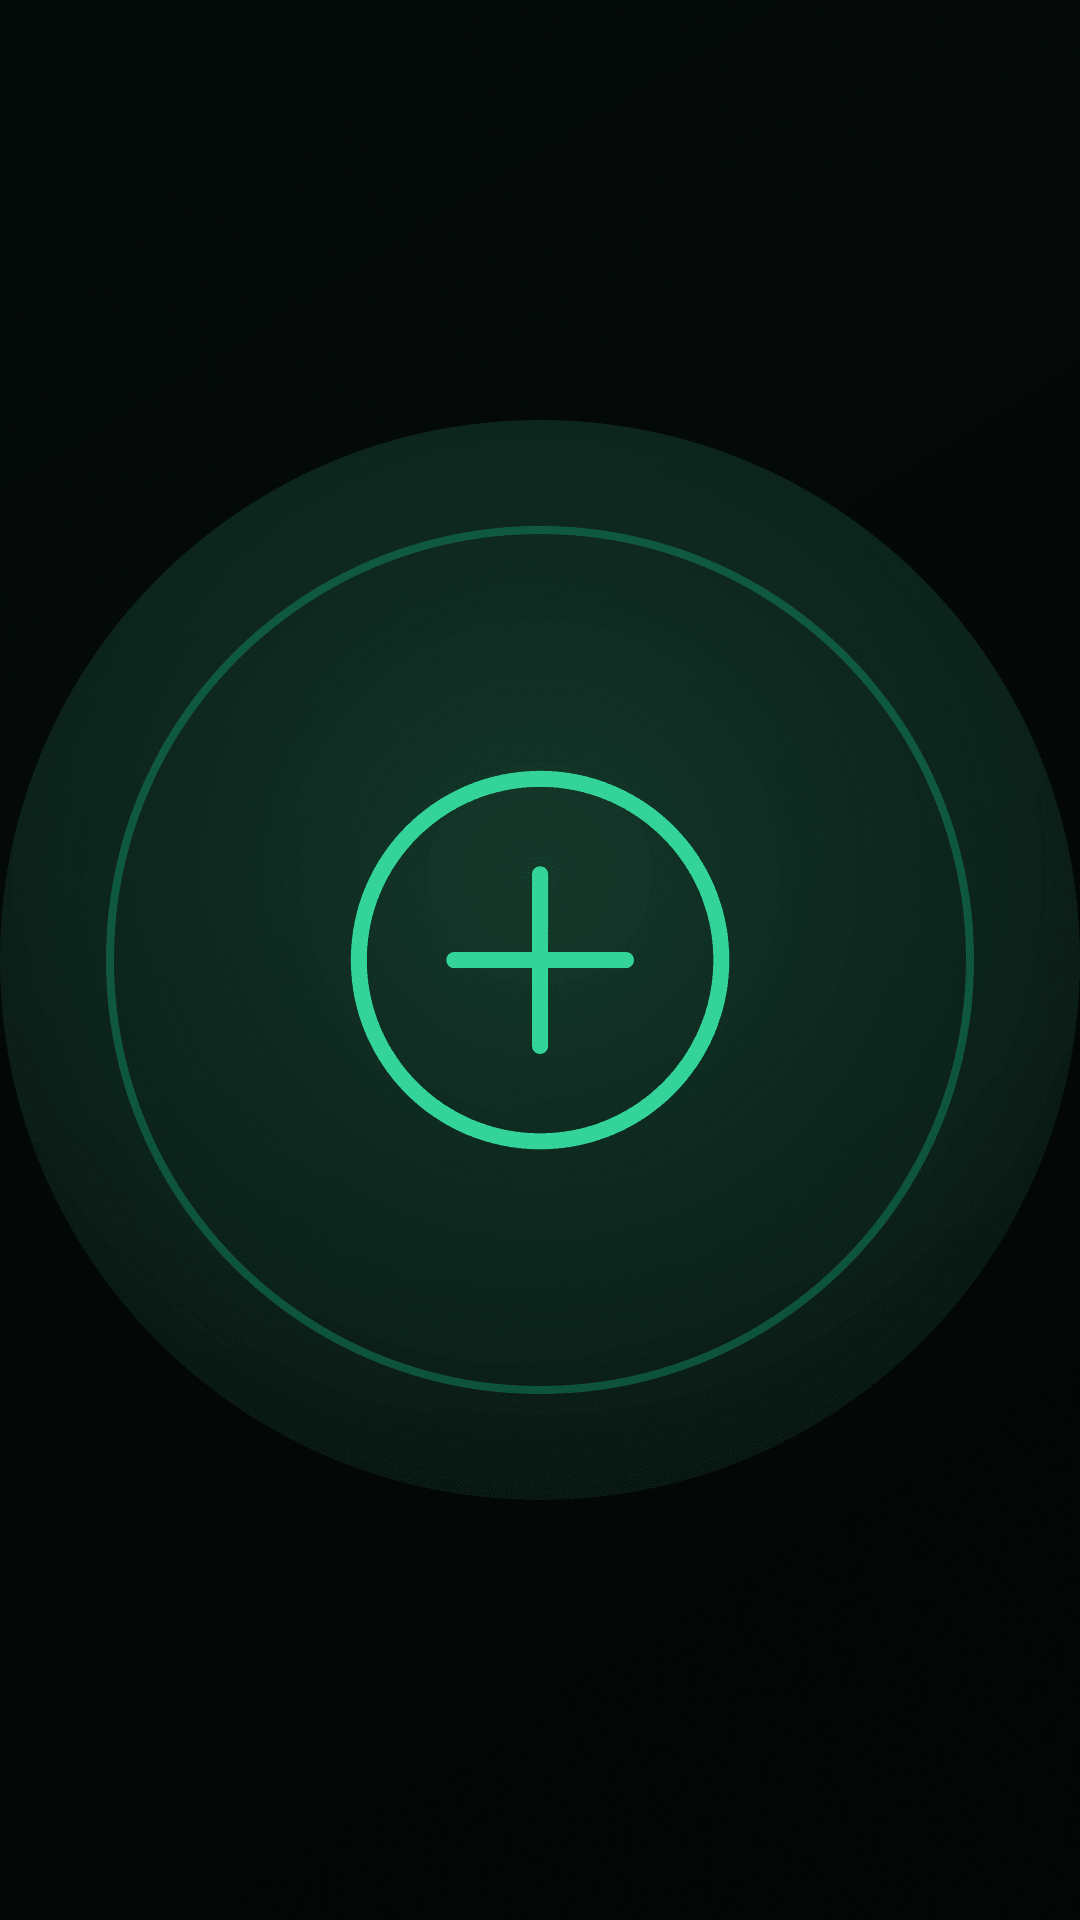
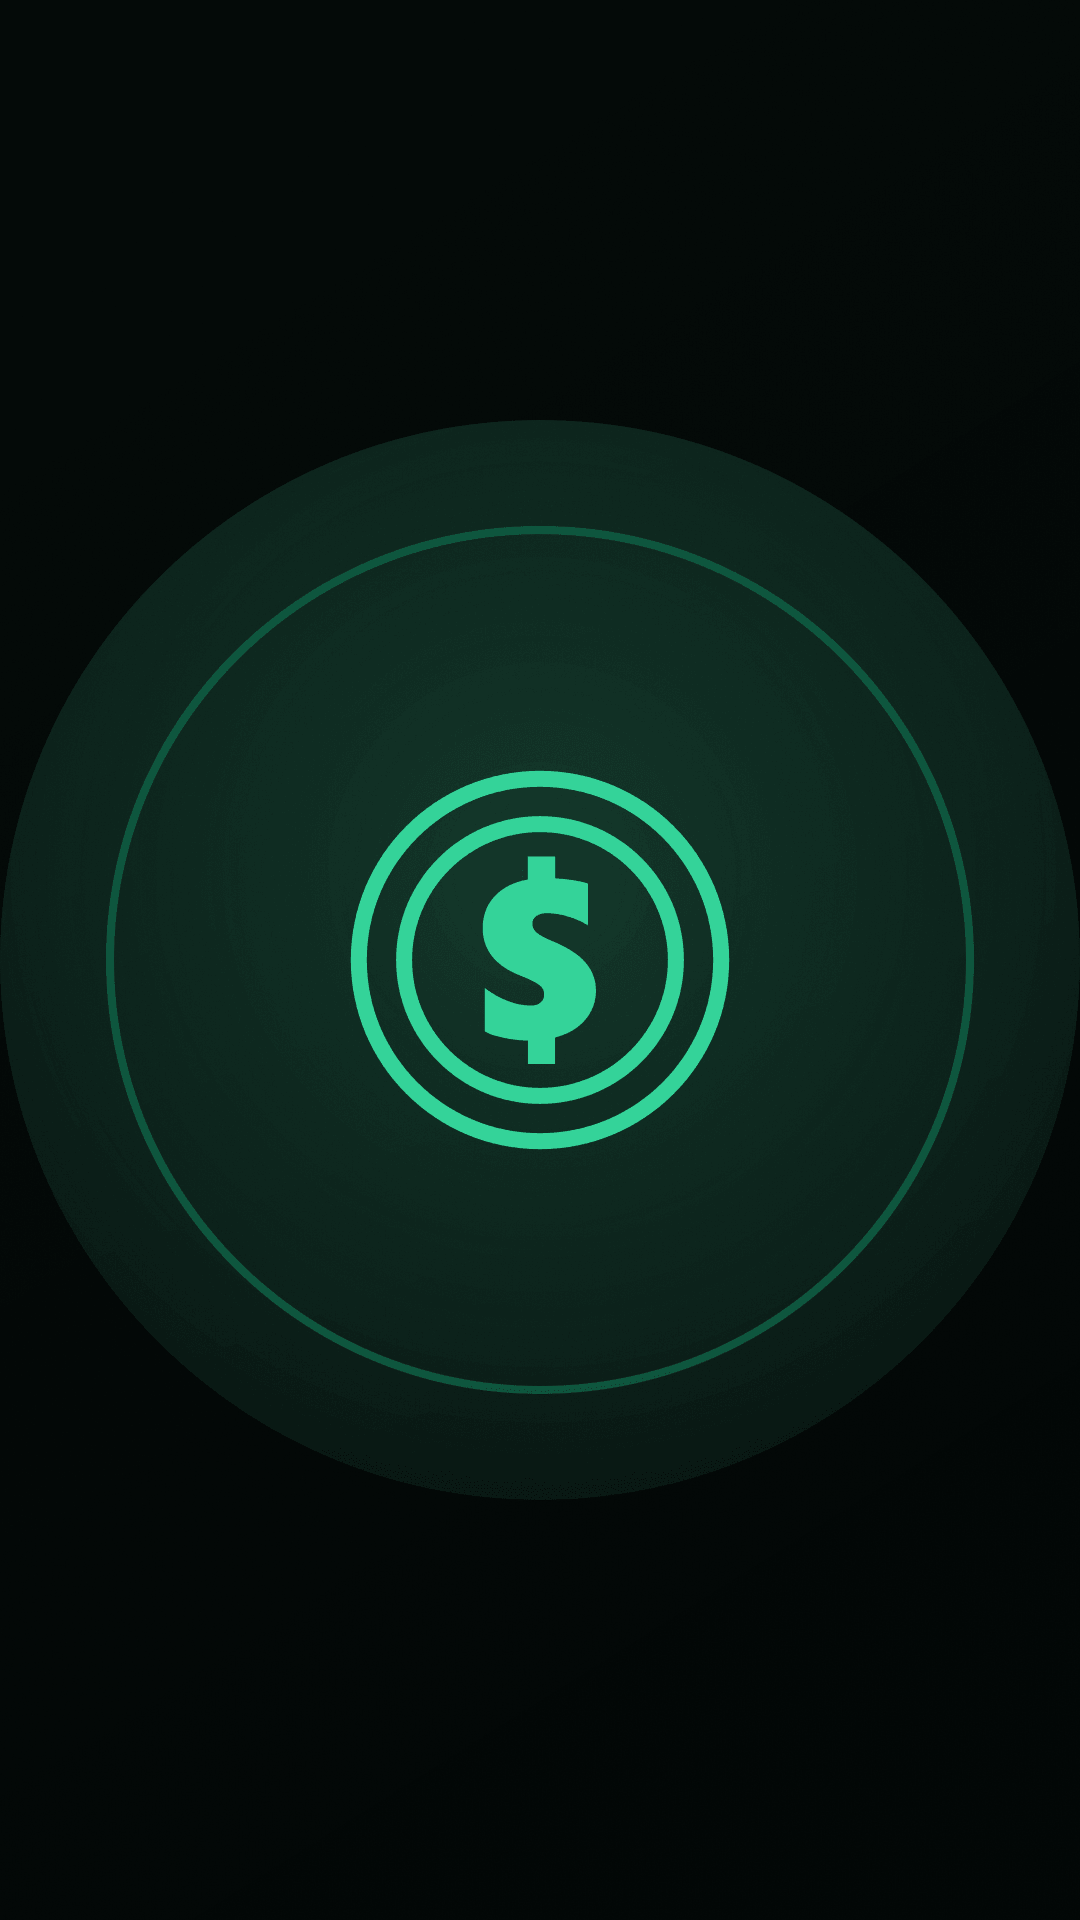
Highlight covers: Earn coin, Plans card, About maple leaf (+ options) (#11)
Earn is a face-on coin with a dollar sign; Plans a single ticked plan card;
About the real maple leaf. Alternatives (coin with leaf, leaf with the mark)
render to covers/options/ and are not part of the tray set or the gates.

Claude-Session: https://claude.ai/code/session_01RJTRVYArNbBLtY9LAXqeFt

Changed region(s): [[0.3667, 0.4062, 0.6111, 0.5938], [0.6111, 0.4688, 0.6417, 0.5312]]

diff --git a/sm-content/brand/icons.js b/sm-content/brand/icons.js
@@ -37,6 +37,7 @@ const sharp = require("sharp");
 const { C } = require("./palette");
 const { GLYPH_PATHS } = require("./mark");
 const { COVER } = require("./ig");
+const { leaf } = require("./leaf");
 
 const r2 = (n) => Math.round(n * 100) / 100;
 const GRID = 48;
@@ -76,22 +77,36 @@ const ICONS = {
     ],
   },
 
-  // Earn — a credit arriving. A coin with a plus through it: the one shape that
-  // says "you gained one of these" without naming a currency, which matters,
-  // because a credit is not money and the copy is careful never to imply it is.
+  // Earn — a coin, face-on, with a dollar sign. The first version was a coin
+  // with a plus through it and nobody read it as money: at 161px it was a
+  // "+" button. A stack of coins was tried next and read as a DATABASE. A
+  // face-on coin with a bold "$" is the one shape that says "money" in half a
+  // second. The cost: "$" implies currency, and a credit is not money — the copy
+  // is careful never to imply it is. `earnLeaf` below is the neutral alternative.
   earn: {
-    circles: [[24, 24, 19, false]],
-    paths: ["M24 15 V33", "M15 24 H33"],
+    circles: [
+      [24, 24, 20, false],
+      [24, 24, 15, false],
+    ],
+    label: { s: "$", size: 26, dy: 9, weight: 900, display: true },
   },
 
-  // Plans — the infinity loop, because the tier this Highlight argues for is
-  // called Unlimited and that is the only word on it that never changes. A price
-  // would have been the obvious icon and is the one thing that must not be
-  // drawn: a printed figure outlives the price it prints.
+  // Plans — ONE plan card: a star badge, then a ticked list of what is included.
+  // The infinity loop it replaces only meant something to someone who already
+  // knew the top tier was called Unlimited. A row of three pricing cards was
+  // drawn first and read as a row of buildings; a single ticked card is the
+  // shape people already know from every pricing page. Still no price on it — a
+  // printed figure outlives the price it prints.
   plans: {
     paths: [
-      "M24 24 C20 14 12 11 7 16 C2 21 2 27 7 32 C12 37 20 34 24 24 " +
-        "C28 14 36 11 41 16 C46 21 46 27 41 32 C36 37 28 34 24 24 Z",
+      "M10 3 H38 A3 3 0 0 1 41 6 V43 A3 3 0 0 1 38 46 H10 A3 3 0 0 1 7 43 V6 A3 3 0 0 1 10 3 Z",
+      "M24 7 L25.53 10.9 L29.71 11.15 L26.47 13.8 L27.53 17.85 L24 15.6 L20.47 17.85 L21.53 13.8 L18.29 11.15 L22.47 10.9 Z",
+      "M12 25 L14.5 27.5 L18.5 22.5",
+      "M23 25 H36",
+      "M12 32 L14.5 34.5 L18.5 29.5",
+      "M23 32 H36",
+      "M12 39 L14.5 41.5 L18.5 36.5",
+      "M23 39 H36",
     ],
   },
 
@@ -139,11 +154,12 @@ const ICONS = {
     ],
   },
 
-  // About — the app's own mark. The only cover that is the product rather than a
-  // symbol for a subject, and the reason it needed no redrawing: it was never
-  // the wrong shape, only the wrong size (62% of its box). Normalisation is the
-  // whole fix.
-  about: { paths: GLYPH_PATHS },
+  // About — the Canadian maple leaf, the same one on the posts. It replaced the
+  // app's own receipt mark, which is already on every frame's lockup. An `art`
+  // icon is drawn from FILLED shapes, not strokes, and is sized by `size`
+  // rather than by COVER.iconFill: a filled leaf carries far more weight than a
+  // line icon of the same bounding box, so the same fill would look enormous.
+  about: { art: "leaf", size: 500 },
 
   // Support — a life ring. A headset would say "call centre", which this is not,
   // and an envelope would collide with Feedback.
@@ -165,6 +181,11 @@ const ICONS = {
       "M29.66 29.66 L38.14 38.14",
     ],
   },
+
+  // ── Options — rendered to covers/options/, never into the tray set ─────────
+  // Alternatives awaiting a choice; each is named in OPTIONS in scenes/covers.js.
+  aboutMark: { art: "leafMark", size: 500 },
+  earnLeaf: { art: "coinLeaf", size: 378 },
 };
 
 // ── Measurement ─────────────────────────────────────────────────────────────
@@ -200,6 +221,12 @@ async function geometryBox(name, { width = COVER.iconStroke } = {}) {
 
   const spec = ICONS[name];
   if (!spec) throw new Error(`no icon named "${name}"`);
+  // Filled art has no stroke geometry to probe; its box is its own size.
+  if (spec.art) {
+    const box = { w: spec.size, h: spec.size, cx: GRID / 2, cy: GRID / 2 };
+    bboxCache.set(key, box);
+    return box;
+  }
   const s = PROBE / GRID;
 
   const svg = `<svg xmlns="http://www.w3.org/2000/svg" width="${PROBE}" height="${PROBE}">
@@ -243,6 +270,39 @@ async function geometryBox(name, { width = COVER.iconStroke } = {}) {
   return box;
 }
 
+/** Filled-art icons: the maple leaf, alone or with the mark, or struck on a coin. */
+function drawArt(spec, { cx, cy }) {
+  const L = spec.size;
+  const leafAt = (size, x, y) => leaf({ x: x - size / 2, y: y - size / 2, size, ground: "field", op: 1 });
+
+  // The leaf's stem hangs below its blade, so the box is nudged down to centre
+  // the blade, which is what the eye reads.
+  if (spec.art === "leaf") return leafAt(L, cx, cy + 8);
+
+  if (spec.art === "leafMark") {
+    // The PriceBack mark in cream, centred on the blade. The glyph's ink centre
+    // is (24,23) on its 48 grid.
+    const sc = 320 / 48;
+    const bladeY = cy + 8 - L / 2 + L * 0.55;
+    const mark =
+      `<g transform="translate(${r2(cx - 24 * sc)} ${r2(bladeY - 23 * sc)}) scale(${r2(sc)})" fill="none" ` +
+      `stroke="${C.paper}" stroke-width="${r2(20 / sc)}" stroke-linecap="round" stroke-linejoin="round">` +
+      GLYPH_PATHS.map((d) => `<path d="${d}"/>`).join("") +
+      `</g>`;
+    return leafAt(L, cx, cy + 8) + mark;
+  }
+
+  if (spec.art === "coinLeaf") {
+    // A coin like `earn`, with the leaf struck on it in place of the "$".
+    const R = L / 2 - COVER.iconStroke / 2;
+    const ring = (r) =>
+      `<circle cx="${cx}" cy="${cy}" r="${r2(r)}" fill="none" stroke="${C.emeraldGlow}" stroke-width="${COVER.iconStroke}"/>`;
+    return ring(R) + ring(R * 0.75) + leafAt(R * 1.2, cx, cy + 6);
+  }
+
+  throw new Error(`unknown art "${spec.art}"`);
+}
+
 /**
  * One icon, normalised to fill `box` and centred on (cx, cy).
  *
@@ -255,6 +315,7 @@ async function drawIcon(
 ) {
   const spec = ICONS[name];
   if (!spec) throw new Error(`no icon named "${name}"`);
+  if (spec.art) return drawArt(spec, { cx, cy });
   const geom = await geometryBox(name, { width });
 
   // Solve for the scale that lands the FINISHED icon — geometry plus one stroke

diff --git a/sm-content/05-highlights/scenes/verify.js b/sm-content/05-highlights/scenes/verify.js
@@ -38,7 +38,7 @@ const { buildCover } = require("./covers");
 const { PROBE_SIZE } = require("./layout");
 const { scanCopy, checkDisclaimerPairing, namesRetailer } = require("./claims");
 const { storyFile, coverFile, rel } = require("./paths");
-const { geometryBox } = require("../../brand/icons");
+const { geometryBox, ICONS } = require("../../brand/icons");
 const { WATERMARK } = require("../../brand/mark");
 
 const STRINGS = JSON.parse(fs.readFileSync(path.join(__dirname, "strings.json"), "utf8"));
@@ -218,6 +218,9 @@ async function checkCovers() {
     // the fill brand/icons.js solved for. The band is tight on purpose: this is
     // arithmetic, not taste, and anything outside it means the normalisation did
     // not run rather than that a designer disagreed.
+    // Filled-art icons (the leaf) are sized by their own `size`, not the line-icon
+    // fill, so there is no fill to assert; gate 7 still bounds their ink.
+    if (ICONS[c.icon].art) continue;
     const geom = await geometryBox(c.icon);
     const s = (COVER.icon * COVER.iconFill - COVER.iconStroke) / Math.max(geom.w, geom.h);
     const drawn = Math.max(geom.w, geom.h) * s + COVER.iconStroke;

diff --git a/sm-content/05-highlights/scenes/render.js b/sm-content/05-highlights/scenes/render.js
@@ -18,8 +18,8 @@ const sharp = require("sharp");
 
 const { CANVAS } = require("./tokens");
 const { buildStory } = require("./stories");
-const { buildCover } = require("./covers");
-const { storyFile, coverFile, rel } = require("./paths");
+const { buildCover, OPTIONS } = require("./covers");
+const { storyFile, coverFile, optionFile, rel } = require("./paths");
 
 const STRINGS = JSON.parse(fs.readFileSync(path.join(__dirname, "strings.json"), "utf8"));
 
@@ -143,6 +143,10 @@ async function main() {
   if (want("covers")) {
     for (const c of STRINGS.covers) {
       const out = coverFile(c);
+      made.push([rel(out), await write(await buildCover(c), out, CANVAS.cover, path.basename(out))]);
+    }
+    for (const c of OPTIONS) {
+      const out = optionFile(c);
       made.push([rel(out), await write(await buildCover(c), out, CANVAS.cover, path.basename(out))]);
     }
   }

diff --git a/sm-content/05-highlights/scenes/paths.js b/sm-content/05-highlights/scenes/paths.js
@@ -27,7 +27,9 @@ const storyFile = (tray, t, lang) =>
 
 const coverFile = (c) => path.join(ROOT, "covers", `${PREFIX}-cover-${c.order}-${c.id}.png`);
 
+const optionFile = (c) => path.join(ROOT, "covers", "options", `${PREFIX}-cover-${c.order}-${c.id}.png`);
+
 /** Repo-relative, forward-slashed — for logs, notes and schedule.json `asset`. */
 const rel = (p) => path.relative(ROOT, p).split(path.sep).join("/");
 
-module.exports = { ROOT, PREFIX, storyFile, coverFile, rel };
+module.exports = { ROOT, PREFIX, storyFile, coverFile, optionFile, rel };

diff --git a/sm-content/05-highlights/scenes/covers.js b/sm-content/05-highlights/scenes/covers.js
@@ -81,4 +81,12 @@ ${body}
 </svg>`;
 }
 
-module.exports = { buildCover, W, H };
+// Alternatives awaiting a choice. Rendered to covers/options/ by render.js and
+// never counted by verify.js or listed in strings.json: promoting one means
+// pointing the tray's `icon` at it (brand/icons.js) and deleting the rest.
+const OPTIONS = [
+  { order: "03", id: "earn-leaf-coin", icon: "earnLeaf" },
+  { order: "09", id: "about-leaf-mark", icon: "aboutMark" },
+];
+
+module.exports = { buildCover, OPTIONS, W, H };

diff --git a/sm-content/05-highlights/HIGHLIGHTS.md b/sm-content/05-highlights/HIGHLIGHTS.md
@@ -81,13 +81,13 @@ this left-to-right order.
 | --- | --- | --- | --- | --- |
 | 1 | falling price arrow | **How it works** | **Ça marche** | The mechanic: a price you paid is not always final · what it takes · the three steps |
 | 2 | storefront, awning | **Stores** | **Magasins** | **One store per frame** — Costco (live) · Best Buy (not yet) · yours? |
-| 3 | coin with a plus | **Earn** | **Gagner** | Credits come back two ways: invite somebody, or scan a shelf tag. Includes what stops people gaming it |
-| 4 | infinity | **Plans** | **Forfaits** | What a credit is · what spends one · what Unlimited changes · what it opens · paid yearly |
+| 3 | coin with a dollar sign (option: coin with the maple leaf) | **Earn** | **Gagner** | Credits come back two ways: invite somebody, or scan a shelf tag. Includes what stops people gaming it |
+| 4 | plan card: star + ticked rows | **Plans** | **Forfaits** | What a credit is · what spends one · what Unlimited changes · what it opens · paid yearly |
 | 5 | sliders | **The app** | **L'app** | Price watching · two reminders · the claim assistant · Outlook sync · offline · what you can set |
 | 6 | bulb | **Tips** | **Astuces** | 04-community **07 · 08 · 09**, plus "scan it in the parking lot" |
 | 7 | ? in a circle | **FAQ** | **FAQ** | 04-community **15 · 16 · 17**, plus "what if I threw out the receipt?" |
 | 8 | life ring | **Support** | **Aide** | 04-community **12 · 13 · 14** |
-| 9 | the PriceBack mark | **About** | **À propos** | 04-community **03** (made here), plus what it will not do |
+| 9 | the maple leaf (option: leaf with the PriceBack mark) | **About** | **À propos** | 04-community **03** (made here), plus what it will not do |
 | 10 | speech bubble | **Feedback** | **Vos idées** | 04-community **10 · 11** |
 
 Trays 6–10 are filled from `04-community`. That is declared in `strings.json` as
